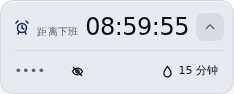
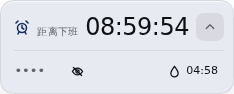
fix: show hydration countdown seconds in compact view

Changed region(s): [[0.688, 0.6809, 0.9573, 0.8298], [0.7479, 0.1702, 0.8077, 0.383]]

diff --git a/client.js b/client.js
@@ -854,7 +854,7 @@ function createHydrationStore(indexedDB, name = 'dsh.offwork-clock.hydration.v1'
 .owc-water-form .owc-save{margin:12px 0}
 .owc-water-form details{margin-top:14px;padding-top:10px;border-top:1px solid color-mix(in srgb,var(--dsw-alias-label-primary) 10%,transparent)}
 .owc-pill-salary{display:flex;align-items:center;gap:3px}
-.owc-pill-water{font-size:11px!important;gap:4px;white-space:nowrap}
+.owc-pill-water{font-size:11px!important;gap:4px;white-space:nowrap;font-variant-numeric:tabular-nums}
 .owc-water-summary{justify-content:flex-start!important}
 @media(max-width:420px){.owc-pill{min-width:136px;padding:8px 8px 7px 12px}.owc-pill-status{display:none}.owc-pill-time{font-size:22px}.owc-main,.owc-form{padding-left:14px;padding-right:14px}.owc-time{font-size:31px}}
 `;
@@ -1910,7 +1910,7 @@ function createHydrationStore(indexedDB, name = 'dsh.offwork-clock.hydration.v1'
                         },
                         iconSvg('water', 13),
                         waterState.phase === 'countdown' && !waterError
-                          ? Math.ceil(waterState.remaining / 60000) + ' ' + t('waterMinutes')
+                          ? formatDuration(waterState.remaining / 1000).replace(/^00:/, '')
                           : t(
                               waterError
                                 ? 'waterTitle'

diff --git a/client.source.js b/client.source.js
@@ -325,7 +325,7 @@ window.__ModuleLoader__.load({
 .owc-water-form .owc-save{margin:12px 0}
 .owc-water-form details{margin-top:14px;padding-top:10px;border-top:1px solid color-mix(in srgb,var(--dsw-alias-label-primary) 10%,transparent)}
 .owc-pill-salary{display:flex;align-items:center;gap:3px}
-.owc-pill-water{font-size:11px!important;gap:4px;white-space:nowrap}
+.owc-pill-water{font-size:11px!important;gap:4px;white-space:nowrap;font-variant-numeric:tabular-nums}
 .owc-water-summary{justify-content:flex-start!important}
 @media(max-width:420px){.owc-pill{min-width:136px;padding:8px 8px 7px 12px}.owc-pill-status{display:none}.owc-pill-time{font-size:22px}.owc-main,.owc-form{padding-left:14px;padding-right:14px}.owc-time{font-size:31px}}
 `;
@@ -1381,7 +1381,7 @@ window.__ModuleLoader__.load({
                         },
                         iconSvg('water', 13),
                         waterState.phase === 'countdown' && !waterError
-                          ? Math.ceil(waterState.remaining / 60000) + ' ' + t('waterMinutes')
+                          ? formatDuration(waterState.remaining / 1000).replace(/^00:/, '')
                           : t(
                               waterError
                                 ? 'waterTitle'

diff --git a/docs/HYDRATION-ACCEPTANCE.md b/docs/HYDRATION-ACCEPTANCE.md
@@ -10,7 +10,7 @@
 
 1. 展开下班计时器，在喝水状态卡片右侧点击“设置”；小条里的水滴倒计时也可直接进入提醒设置。薪资设置使用另一个页面。
 2. 默认关闭，默认间隔 60 分钟。选择 15 / 30 / 45 / 60 / 90 / 120 分钟预设，或输入 5–240 的整数，然后统一点击“保存提醒设置”。支持回车保存；取消和返回均不保存草稿。
-3. 保存后回到原面板，明确显示已生效的间隔和下次提醒；小条第一行显示下班时间，第二行显示工资与喝水状态。
+3. 保存后回到原面板，明确显示已生效的间隔和下次提醒；小条第一行显示下班时间，第二行显示工资与喝水状态。喝水倒计时逐秒显示 `05:00 → 04:59`，不足一小时用分秒，一小时以上保留时分秒。
 4. 到期时只显示一处提示，提供“喝了”“工作 10 分钟后”。“本班暂停 / 恢复”在展开面板中操作。提示不自动获取键盘焦点。
 5. “喝了”增加一次本班打卡，重新计时；稍后不增加次数；暂停可通过设置中的“恢复本班提醒”解除。
 6. 午休冻结倒计时；夜班按班次开始日归属；非工作日和下班后不弹提醒。
@@ -73,6 +73,7 @@ DSH_HOME="$preview_dir/home" dsh web --host 127.0.0.1 --port 3081 --no-open
 - 自动化：86 项测试，包括现有 57 项及新增 29 项提醒规则/事务测试。
 - 间隔专项浏览器回归：逐一验证 5、15、17、30、45、60、90、120、240 分钟的输入/选择、持久化值、倒计时与实际到期；另验证 23 分钟回车保存与刷新恢复。
 - 交互专项：取消不保存、非法输入不会覆盖已保存值、薪资/提醒表单分离、另一标签页更新不覆盖正在编辑的草稿、窄屏布局。
+- 倒计时显示回归：自然等待后小条 `05:00 → 04:58`，与展开面板一致；刷新后继续到 `04:56`，持久化到期进度不变，到期仅出现一条提醒。旧版把小条取整显示为“5 分钟”，首分钟视觉上不变，已改为逐秒显示。
 - 原生 IndexedDB：在两个真实浏览器页面中验证并发领取、重复打卡、事务重置、未知 schema 拒绝及暂时打开失败后的重试。
 - Harness 界面：默认关闭、间隔校验、开启、提示不抢焦点、打卡、稍后、暂停、恢复、确认清零、刷新持久化、窄窗口均通过。
 - 多标签页：单一提示、关闭持有者后接管、损坏数据停止提醒，以及明确重置后两个标签页恢复均通过。
